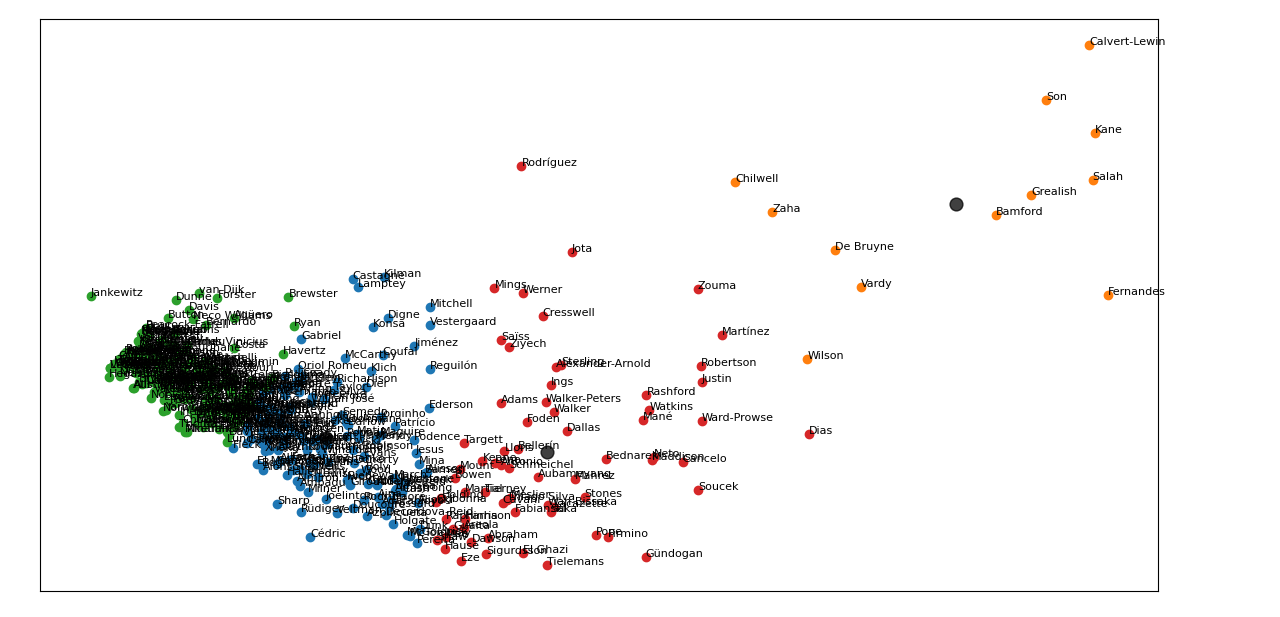
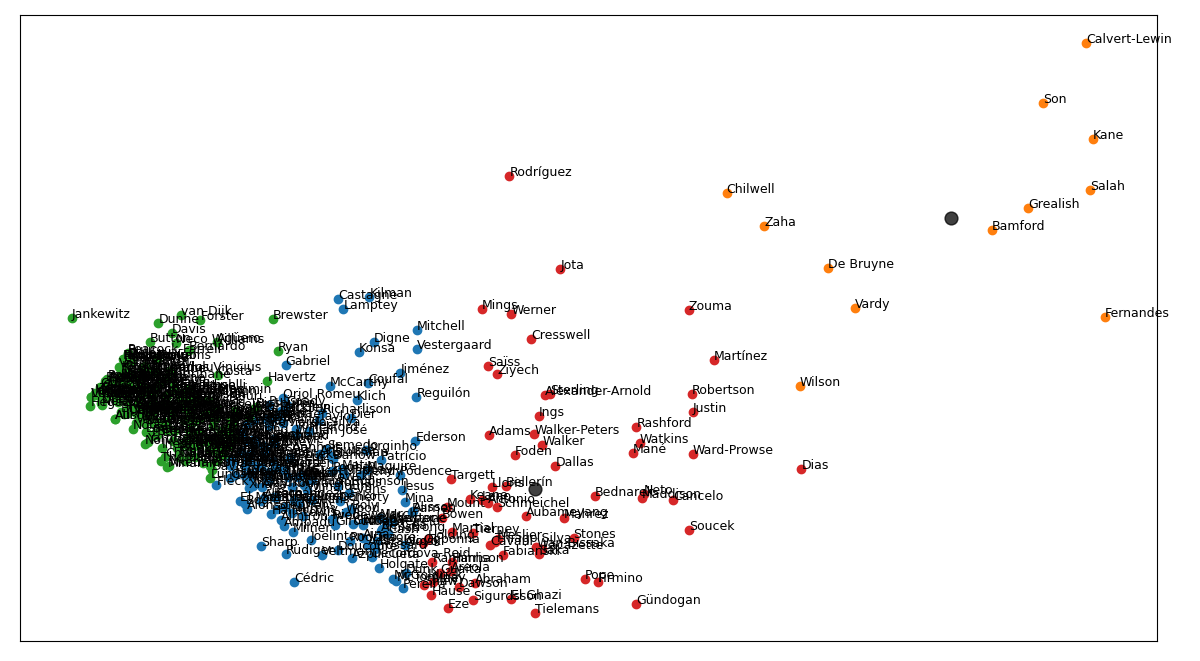
Updated Clustering figure

diff --git a/Clustering.py b/Clustering.py
@@ -91,7 +91,7 @@ for i in range(0, clusters_num):
 
 # Add country name to each point
 for j, name in names.iteritems():
-    km_ax.annotate(name, (fantasy[j][0], fantasy[j][1]), fontsize=8)
+    km_ax.annotate(name, (fantasy[j][0], fantasy[j][1]), fontsize=9)
 
 # Plot KM cetnroids
 plt.scatter(km.cluster_centers_[:, 0],
